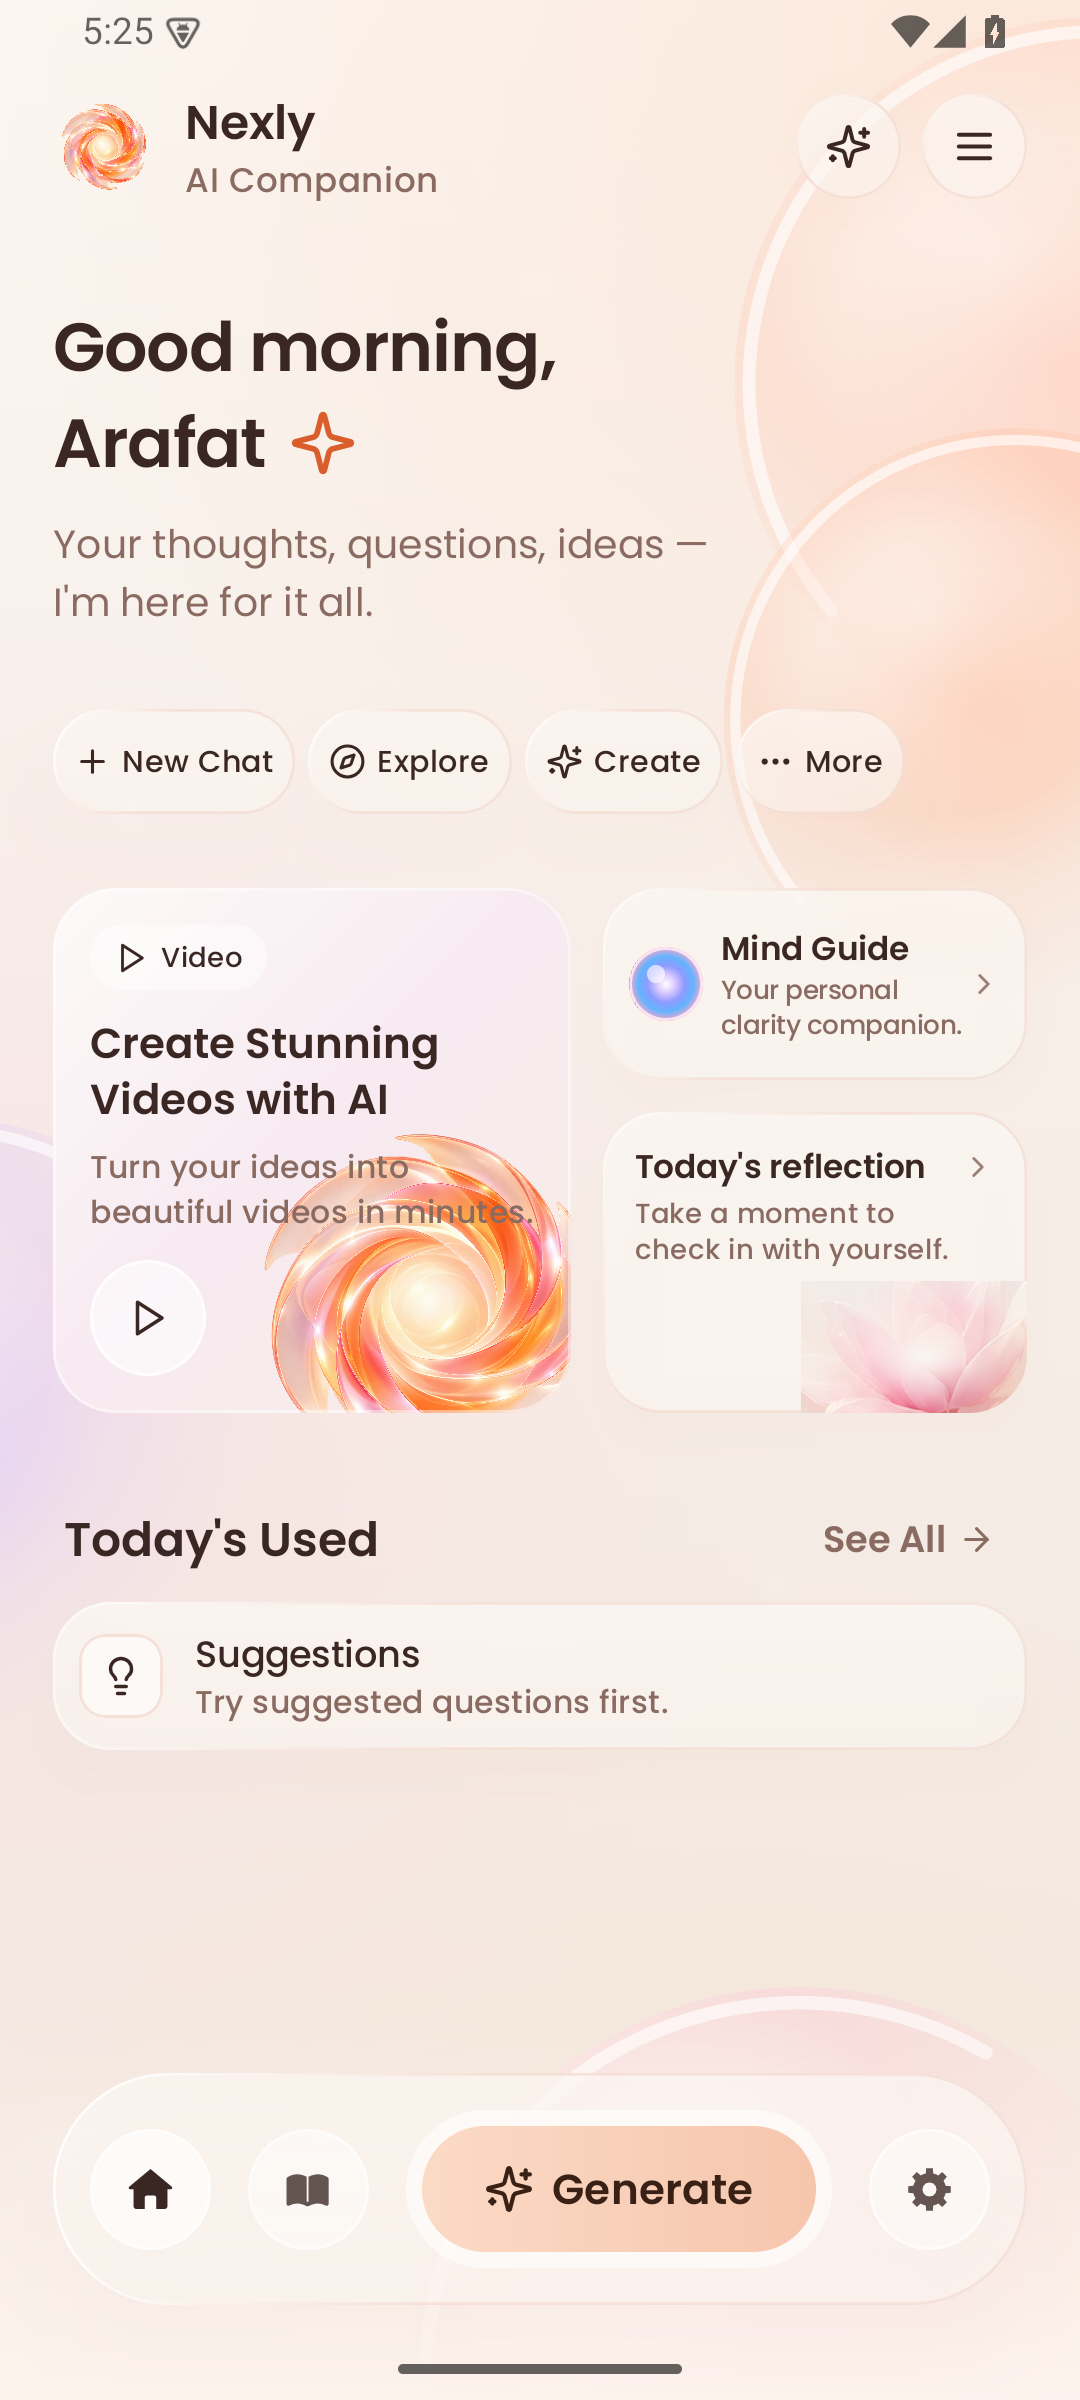
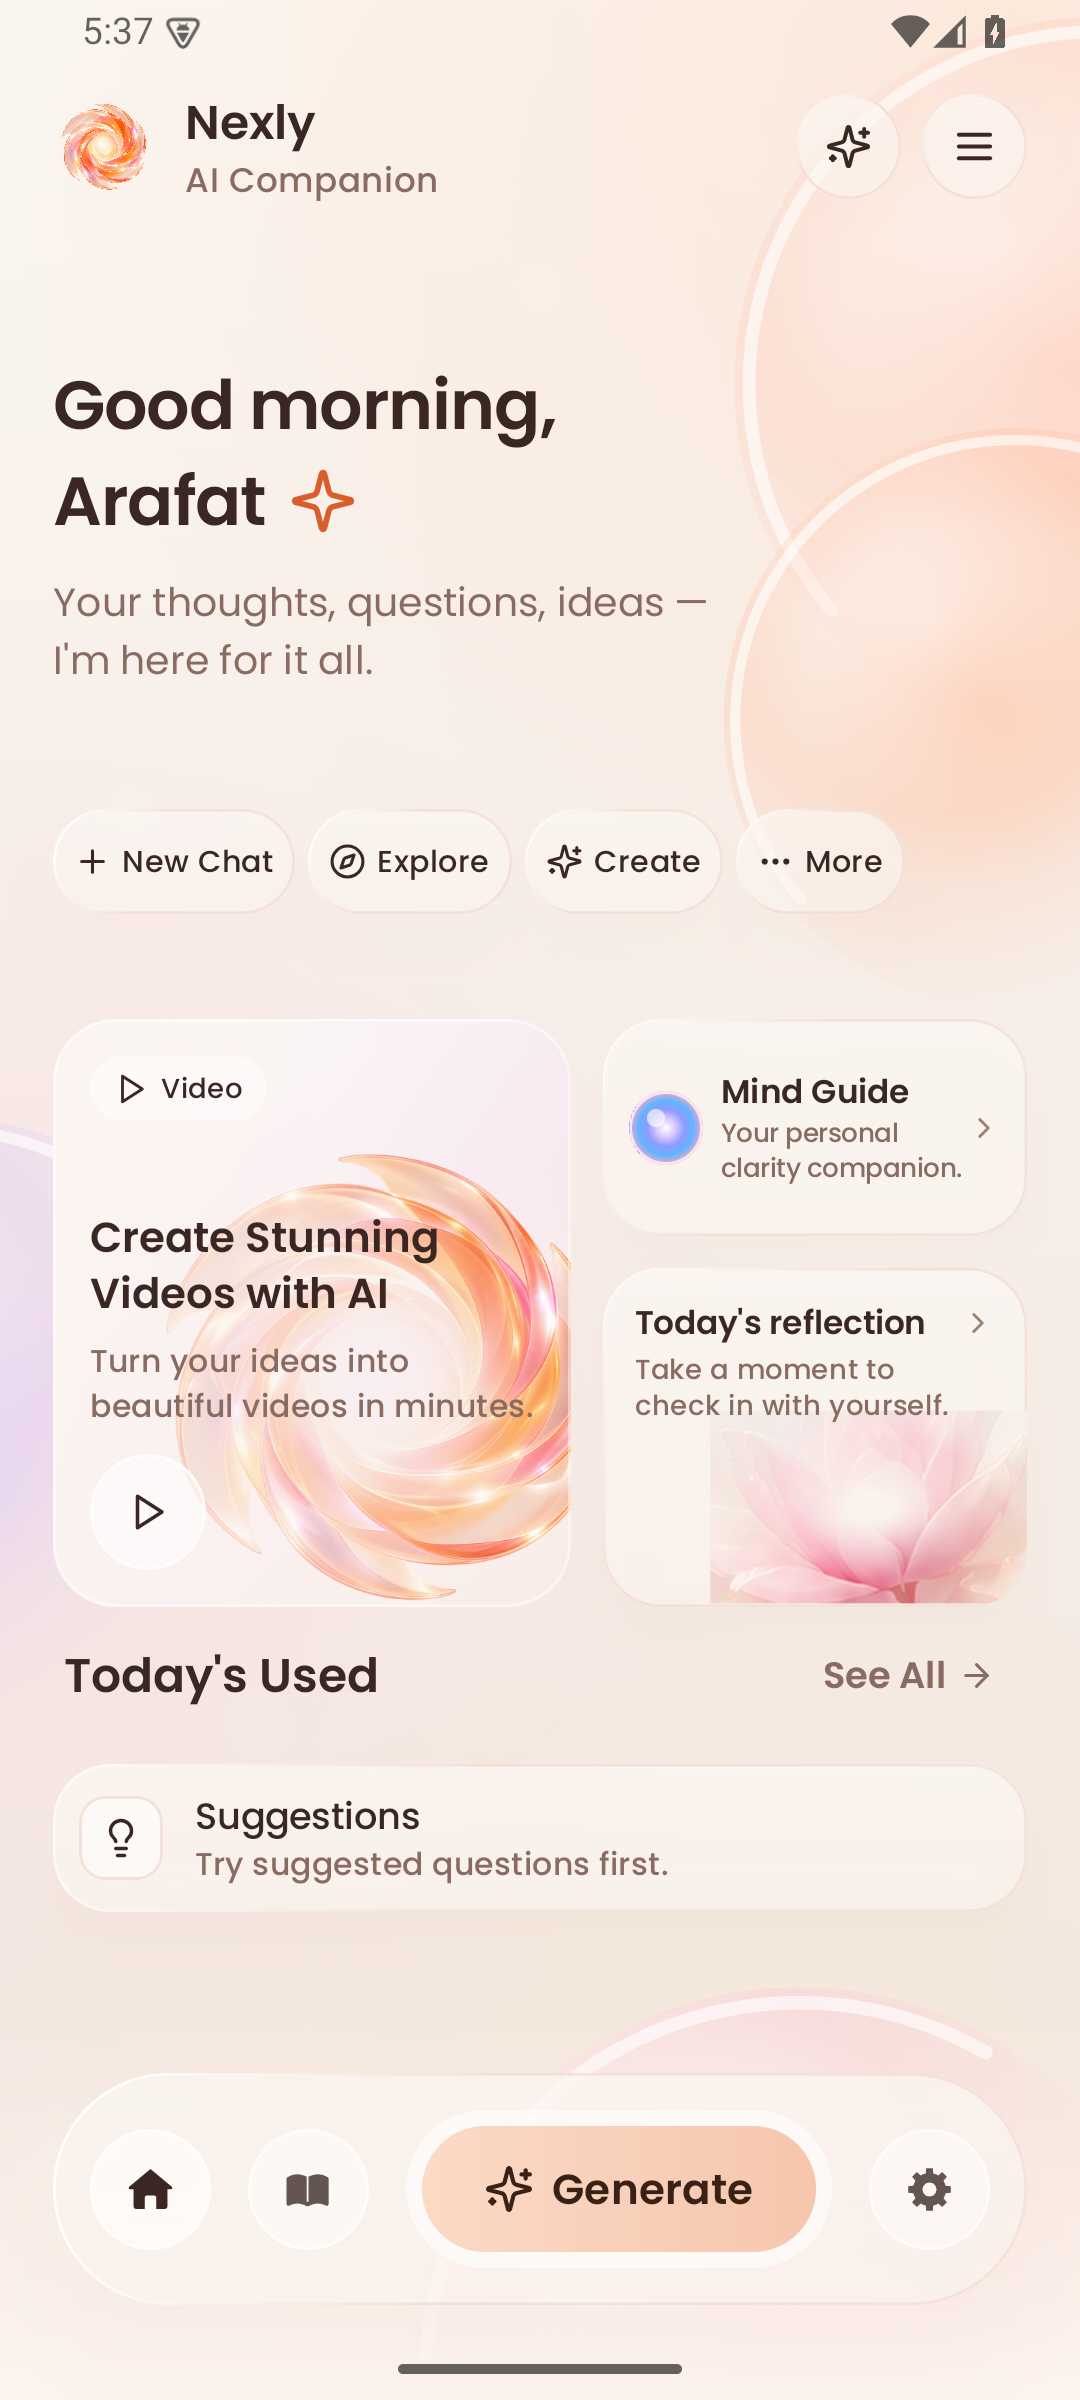
home: sheet rhythm and art layering, verified on the emulator again
- vertical rhythm now matches the sheet: 52 / 46 / 40 / 10 / 18, bento 224dp,
  pills 38dp.
- video card composites the pearl the way the mock does: feathered authored
  render under the copy, with a left-to-right scrim so the text stays on paper.
- reflection card paints the lotus first and keeps the copy on a higher z-plane;
  the lotus render grows to 132x96 with an edge-zero alpha mask.
- bokeh rings removed: the sheet's defocus is soft light, not a drawn circle.
- iOS mirrors the same numbers, card order and assets (GSHomeOrb).
- docs/design-pass/home-android.png refreshed.

diff --git a/android/app/src/main/java/com/grapsee/gsai/ui/home/HomeDashboardScreen.kt b/android/app/src/main/java/com/grapsee/gsai/ui/home/HomeDashboardScreen.kt
@@ -47,6 +47,7 @@ import androidx.compose.ui.semantics.Role
 import androidx.compose.ui.text.font.FontWeight
 import androidx.compose.ui.text.style.TextOverflow
 import androidx.compose.ui.unit.dp
+import androidx.compose.ui.zIndex
 import androidx.compose.ui.unit.sp
 import androidx.lifecycle.compose.collectAsStateWithLifecycle
 import com.grapsee.gsai.data.AccountStore
@@ -174,7 +175,7 @@ fun HomeDashboardScreen(
                     .verticalScroll(rememberScrollState())
                     .padding(horizontal = 20.dp)
             ) {
-                Spacer(Modifier.height(30.dp))
+                Spacer(Modifier.height(52.dp))
                 // Reference order: the thread you were just in sits ABOVE the
                 // greeting, as a readable glass preview — the fastest way back
                 // into real work. Hidden when nothing has been said yet.
@@ -186,14 +187,14 @@ fun HomeDashboardScreen(
                     Spacer(Modifier.height(16.dp))
                 }
                 GreetingBlock(greeting = greeting, firstName = firstName)
-                Spacer(Modifier.height(30.dp))
+                Spacer(Modifier.height(46.dp))
                 QuickPills(
                     onNewChat = onNewChat,
                     onExplore = onOpenAgent,
                     onCreate = { onStartPrompt(CREATE_PROMPT) },
                     onMore = onOpenDrawer,
                 )
-                Spacer(Modifier.height(28.dp))
+                Spacer(Modifier.height(40.dp))
                 Bento(
                     onVideo = { onStartPrompt(CREATE_PROMPT) },
                     onMindGuide = {
@@ -207,9 +208,9 @@ fun HomeDashboardScreen(
                         )
                     },
                 )
-                Spacer(Modifier.height(32.dp))
+                Spacer(Modifier.height(10.dp))
                 TodayUsedHeader(onSeeAll = onOpenChats)
-                Spacer(Modifier.height(8.dp))
+                Spacer(Modifier.height(18.dp))
                 SuggestionsCard(
                     title = "Suggestions",
                     subtitle = "Try suggested questions first.",
@@ -383,7 +384,7 @@ private fun Bento(
     Row(
         modifier = Modifier
             .fillMaxWidth()
-            .height(200.dp),
+            .height(224.dp),
         horizontalArrangement = Arrangement.spacedBy(12.dp)
     ) {
         // Measured from the sheet: the video card is 196pt of a 356pt row
@@ -425,18 +426,30 @@ private fun VideoCard(onClick: () -> Unit, modifier: Modifier = Modifier) {
                 onClick = onClick
             )
     ) {
-        // The sheet's art is a real 3D render of light through pearl — and
-        // the app already owns one: the authored companion bloom. It bleeds
-        // off the lower-right corner exactly as the mock's mass does.
+        // The sheet lays the pearl mass UNDER the copy and fades it toward
+        // the text edge. The feathered asset is the same authored render with
+        // its rim dissolved, so it reads as light in the card, not a sticker.
         Image(
-            painter = painterResource(com.grapsee.gsai.R.drawable.gs_companion_orb),
+            painter = painterResource(com.grapsee.gsai.R.drawable.gs_home_orb),
             contentDescription = "Pearlescent bloom",
             contentScale = ContentScale.Fit,
             modifier = Modifier
                 .align(Alignment.BottomEnd)
-                .offset(x = 20.dp, y = 34.dp)
-                .size(150.dp)
-                .alpha(0.92f)
+                .offset(x = 26.dp, y = 18.dp)
+                .size(210.dp)
+        )
+        // A left-to-right scrim keeps the copy on paper while the art owns the
+        // right third, exactly as the mock composites it.
+        Box(
+            Modifier
+                .matchParentSize()
+                .background(
+                    Brush.horizontalGradient(
+                        0f to Color(0xE0FBF4F0),
+                        0.55f to Color(0x66FBF6F3),
+                        1f to Color(0x00FBF6F3)
+                    )
+                )
         )
         Column(Modifier.fillMaxSize().padding(14.dp)) {
             ReferenceChip(icon = GsIcons.Play, label = "Video")
@@ -567,7 +580,8 @@ private fun MindGuideCard(onClick: () -> Unit, modifier: Modifier = Modifier) {
 private fun ReflectionCard(onClick: () -> Unit, modifier: Modifier = Modifier) {
     GlassPanel(modifier = modifier, onClick = onClick, onClickLabel = "Open today's reflection") {
         Box(Modifier.fillMaxSize()) {
-            Column(Modifier.fillMaxSize().padding(12.dp)) {
+            // The lotus is painted first; the copy keeps its own z-plane.
+            Column(Modifier.fillMaxSize().padding(12.dp).zIndex(1f)) {
                 Row(verticalAlignment = Alignment.CenterVertically) {
                     Text(
                         text = "Today's reflection",
@@ -601,14 +615,14 @@ private fun ReflectionCard(onClick: () -> Unit, modifier: Modifier = Modifier) {
                     modifier = Modifier.padding(end = 12.dp)
                 )
             }
-            Box(Modifier.align(Alignment.BottomEnd).offset(x = 8.dp, y = 12.dp)) {
+            Box(Modifier.align(Alignment.BottomEnd).offset(x = 6.dp, y = 10.dp)) {
                 // The sheet's lotus is a rendered photograph; it ships as an
                 // asset with a radial alpha fade so it melts into the card.
                 Image(
                     painter = painterResource(com.grapsee.gsai.R.drawable.gs_home_lotus),
                     contentDescription = "A lotus in bloom",
                     contentScale = ContentScale.Fit,
-                    modifier = Modifier.size(width = 94.dp, height = 68.dp)
+                    modifier = Modifier.size(width = 132.dp, height = 96.dp)
                 )
             }
         }
@@ -1087,7 +1101,7 @@ private fun GlassPill(icon: ImageVector, label: String, onClick: () -> Unit) {
                 onClickLabel = label,
                 onClick = onClick
             )
-            .padding(horizontal = 8.dp, vertical = 11.dp),
+            .padding(horizontal = 8.dp, vertical = 9.dp),
         verticalAlignment = Alignment.CenterVertically
     ) {
         Icon(

diff --git a/ios/App/Sources/Features/Home/HomeDashboardView.swift b/ios/App/Sources/Features/Home/HomeDashboardView.swift
@@ -24,15 +24,19 @@ struct HomeDashboardView: View {
     var body: some View {
         ZStack(alignment: .bottom) {
             ScrollView(showsIndicators: false) {
-                VStack(alignment: .leading, spacing: 30) {
+                // The sheet's rhythm, measured: 52 above the greeting, 46 to
+                // the pills, 40 to the bento, 10 to Today's Used, 18 to its row.
+                VStack(alignment: .leading, spacing: 0) {
                     header
                     resumeCard
+                    Spacer().frame(height: 52)
                     greeting
+                    Spacer().frame(height: 46)
                     pills
+                    Spacer().frame(height: 40)
                     bento
-                    // The sheet puts "Today's Used" 30pt below the bento and
-                    // its card only 8pt under the heading.
-                    VStack(alignment: .leading, spacing: 8) {
+                    Spacer().frame(height: 10)
+                    VStack(alignment: .leading, spacing: 18) {
                         todayUsedHeader
                         suggestionsCard
                     }
@@ -210,7 +214,7 @@ struct HomeDashboardView: View {
                 .frame(maxWidth: .infinity, maxHeight: .infinity, alignment: .top)
             }
         }
-        .frame(height: 200)
+        .frame(height: 224)
     }
 
     // MARK: Today's Used + suggestions
@@ -323,7 +327,7 @@ private struct HomePill: View {
             }
             .foregroundStyle(Aero.text)
             .padding(.horizontal, 9)
-            .padding(.vertical, 11)
+            .padding(.vertical, 9)
             .gsCapsuleGlass(.floatingControl)
         }
         .buttonStyle(KineticPressStyle())
@@ -343,14 +347,24 @@ private struct VideoCard: View {
                     startPoint: .topLeading, endPoint: .bottomTrailing)
                 // The sheet's art is a real 3D render of light through pearl —
                 // and the app already owns one: the authored companion bloom.
-                Image("GSCompanionOrb")
+                Image("GSHomeOrb")
                     .resizable()
                     .scaledToFit()
-                    .frame(width: 212, height: 212)
+                    .frame(width: 196, height: 196)
                     .frame(maxWidth: .infinity, maxHeight: .infinity,
                            alignment: .bottomTrailing)
-                    .offset(x: 44, y: 38)
+                    .offset(x: 34, y: 30)
                     .allowsHitTesting(false)
+                // The mock fades the art toward the text edge; the same scrim
+                // keeps the copy on paper while the pearl owns the right third.
+                LinearGradient(
+                    stops: [
+                        .init(color: Color(red: 0.984, green: 0.957, blue: 0.941), location: 0),
+                        .init(color: Color(red: 0.984, green: 0.965, blue: 0.953).opacity(0.6), location: 0.55),
+                        .init(color: .clear, location: 1)
+                    ],
+                    startPoint: .leading, endPoint: .trailing
+                )
                 VStack(alignment: .leading, spacing: 6) {
                     HStack(spacing: 5) {
                         Image(systemName: "play").font(.system(size: 10, weight: .bold))
@@ -419,6 +433,13 @@ private struct ReflectionCard: View {
     var body: some View {
         Button(action: action) {
             ZStack(alignment: .bottomTrailing) {
+                // Lotus first so the copy keeps the top z-plane.
+                Image("GSHomeLotus")
+                    .resizable()
+                    .scaledToFit()
+                    .frame(width: 132, height: 96)
+                    .offset(x: 12, y: 16)
+                    .allowsHitTesting(false)
                 VStack(alignment: .leading, spacing: 4) {
                     HStack {
                         Text("Today's reflection")
@@ -434,14 +455,6 @@ private struct ReflectionCard: View {
                         .fixedSize(horizontal: false, vertical: true)
                         .padding(.trailing, 26)
                 }
-                // The sheet's lotus is a rendered photograph; it ships as an
-                // asset with a radial alpha fade so it melts into the card.
-                Image("GSHomeLotus")
-                    .resizable()
-                    .scaledToFit()
-                    .frame(width: 116, height: 84)
-                    .offset(x: 12, y: 16)
-                    .allowsHitTesting(false)
             }
             .padding(14)
             .frame(maxWidth: .infinity, maxHeight: .infinity, alignment: .leading)

diff --git a/android/app/src/main/java/com/grapsee/gsai/ui/components/ReferenceBackdrop.kt b/android/app/src/main/java/com/grapsee/gsai/ui/components/ReferenceBackdrop.kt
@@ -171,12 +171,8 @@ fun ReferenceBackdrop(
                 radius = r,
                 center = c
             )
-            drawCircle(
-                color = Color.White.copy(alpha = a * 0.18f),
-                radius = r * 0.82f,
-                center = c,
-                style = Stroke(width = 1.dp.toPx())
-            )
+            // No ring: the sheet's bokeh is pure soft light, and a stroke
+            // reads as a drawn circle rather than defocus.
         }
 
         // 2b. Pearlescent orbs. The reference's backdrop is not only bloom:

diff --git a/docs/UI_ARCHITECTURE.md b/docs/UI_ARCHITECTURE.md
@@ -130,15 +130,16 @@ sync across `home/HomeDashboardScreen` and `Features/Home/HomeDashboardView`.
 | Header | avatar 38, wordmark 18 semibold, subtitle 13, two 40dp glass circles |
 | Greeting | 32 semibold, 36 leading, one four-point sparkle 26 |
 | Subtitle | 15/22, muted |
-| Pills | 12sp, 11dp vertical inset (42dp tall), 8dp horizontal, 5dp gaps |
-| Bento | 200dp tall, 1.22 : 1 columns, 0.64 : 1 right stack (39/61) |
-| Video card | near-white fill `#FDFAF8 -> #F7EAF1 -> #F9EEE5`, title 16/21, body 12/17, pearl art 200dp bleeding bottom-right |
-| Mind Guide | orb 38, title 13.5 semibold, body 11.5/15 |
-| Reflection | title 13.5 semibold, body 11.5/15, lotus 84 bleeding bottom-right |
+| Pills | 12sp, 9dp vertical inset (38dp tall), 8dp horizontal, 5dp gaps |
+| Bento | 224dp tall, 1.22 : 1 columns, 0.64 : 1 right stack (39/61) |
+| Video card | near-white fill `#FDFAF8 -> #F7EAF1 -> #F9EEE5`; feathered pearl render 210dp under a left-to-right scrim; title 16/21, body 12/17 |
+| Mind Guide | orb 28, title 12.5 semibold, body 10/13 with -0.2 tracking and an explicit break after "personal" |
+| Reflection | title 12.5 semibold, body 10.5/13.5, lotus render 132x96 behind the copy |
 | Today's Used | 18 semibold, See All 14 |
 | Suggestions | 32dp lightbulb tile, title 14, body 12, no chevron |
 | Dock | 14dp frame and gaps, 46dp wells, 60dp Generate well around a 48dp pill, 15sp label |
-| Rhythm | 30 before greeting, 30 before pills, 28 before bento, 32 before Today's Used, 8 before suggestions |
+| Rhythm | 52 above greeting, 46 to pills, 40 to bento, 10 to Today's Used, 18 to suggestions |
+| Evidence | `docs/design-pass/home-android.png` — 1080x2400 render from an API 35 emulator |
 
 ## 4c. Chart interactivity coverage
 
